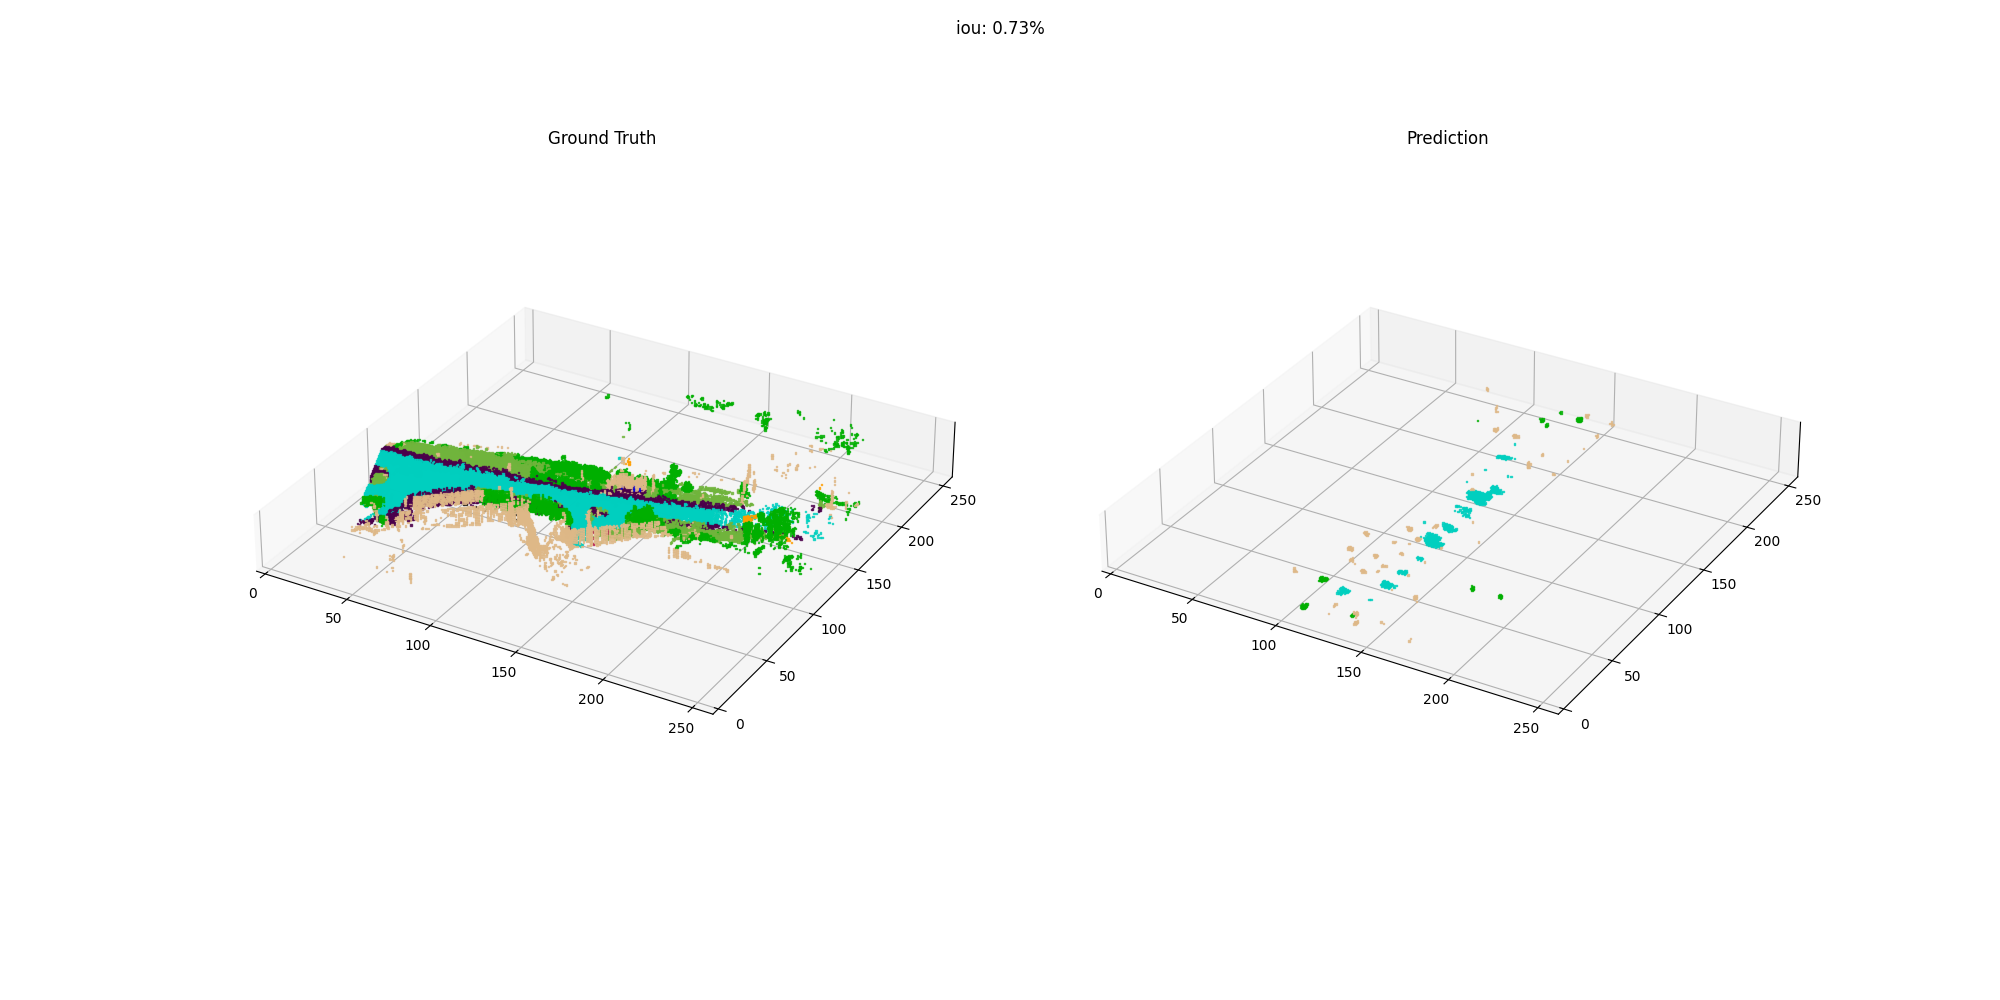
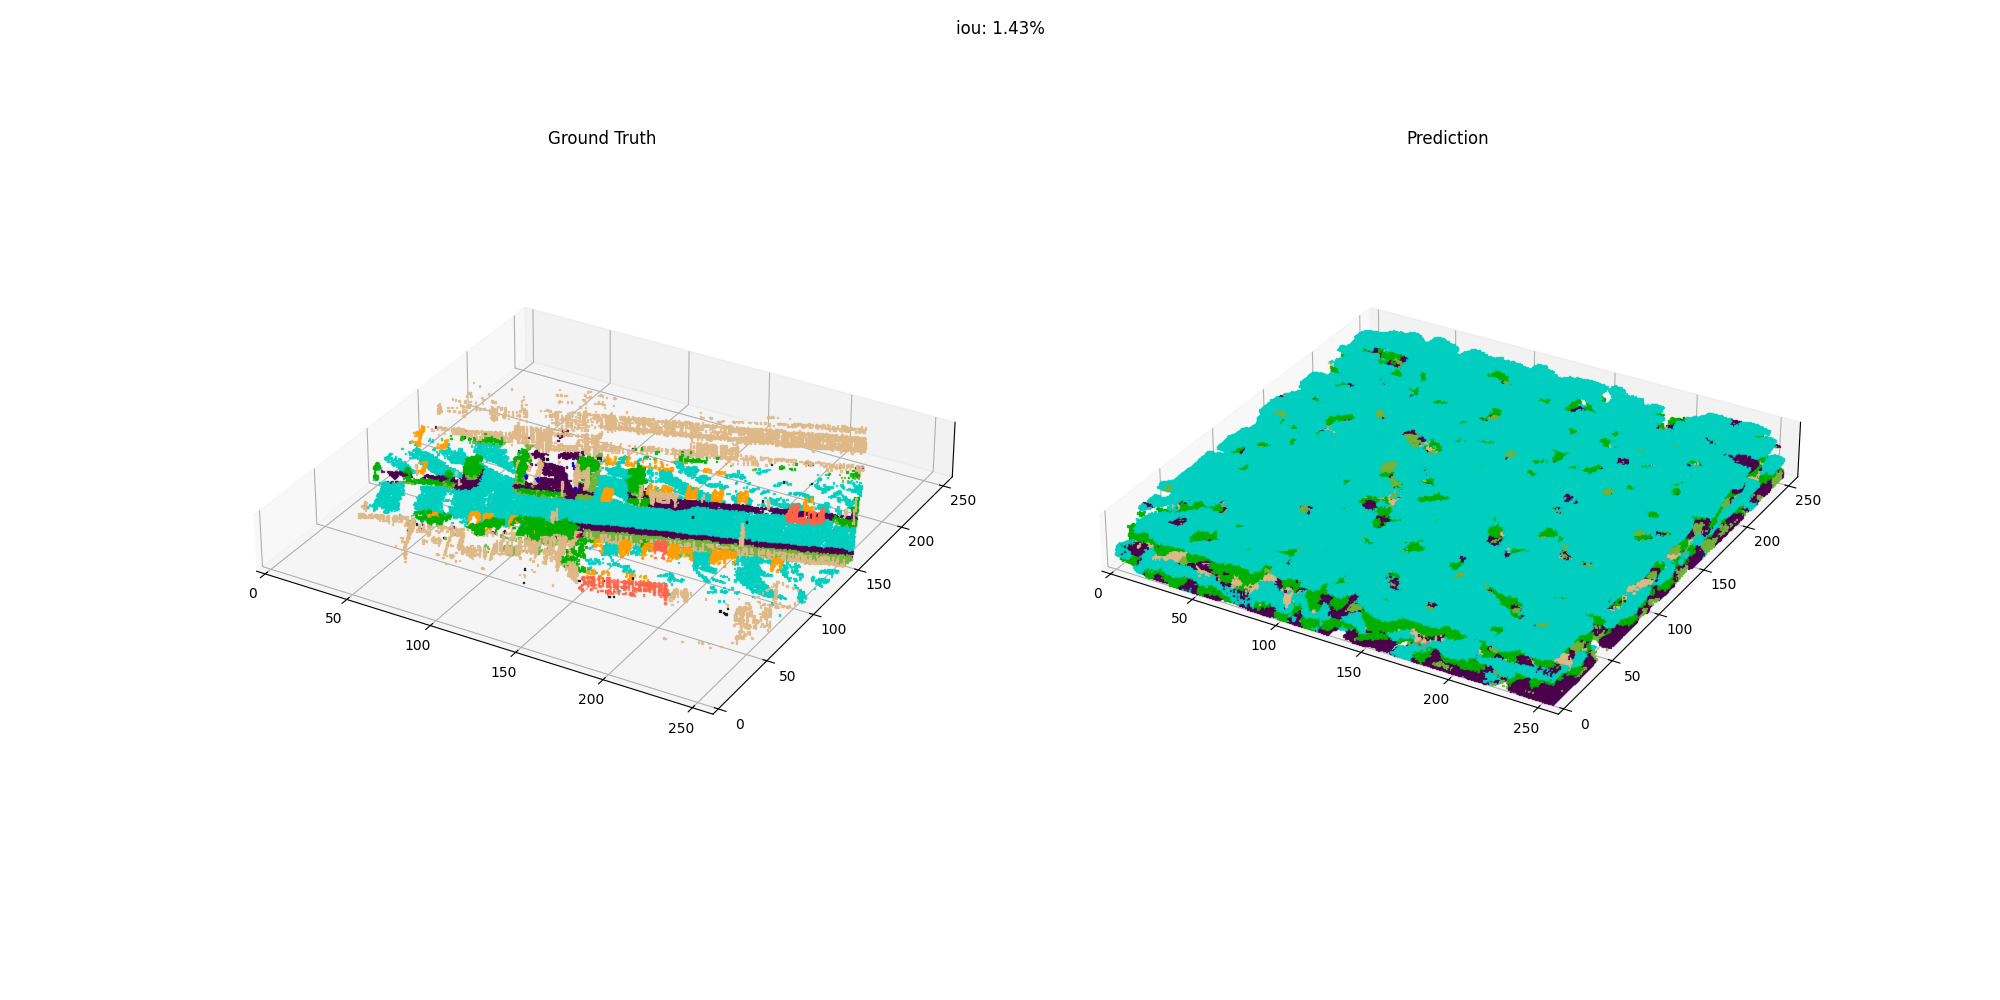
update

Changed region(s): [[0.558, 0.31, 0.899, 0.713], [0.155, 0.403, 0.434, 0.651]]

diff --git a/occupancy/pipelines/occ_transformer.py b/occupancy/pipelines/occ_transformer.py
@@ -242,7 +242,7 @@ class OccupancyTransformer(nn.Module):
         self.transformer = Transformer(
             self.hidden_size, self.num_layers, self.hidden_size // 128, 128, max_seq_length=16 * 16 * 2
         )
-        self.out_conv = nn.Conv3d(self.hidden_size, self.latent_dim, 1)
+        self.out_conv = nn.Conv3d(self.hidden_size, self.latent_dim * 2, 1)
 
     def forward(self, occ_latent: Tensor) -> Tensor:
         occ_latent = self.in_conv(occ_latent)
@@ -405,12 +405,15 @@ class OccupancyTransformerPipeline(nn.Module):
             occ_latent = None
             with torch.no_grad():
                 occ = occ_shuffle(input.occupancy, 32)
-                occ_latent = self.voxel_autoencoderkl.encode(occ).sample()
-                target_latent = self.voxel_autoencoderkl.encode(input.occupancy).sample()
+                occ_dist = self.voxel_autoencoderkl.encode(occ)
+                occ_latent = occ_dist.sample()
+                target_dist = self.voxel_autoencoderkl.encode(input.occupancy)
         model_output = self.decode(occ_latent, (16, 16, 2))
-        pred_occ = self.voxel_autoencoderkl.decode(model_output)
+        model_dist = GaussianDistribution.from_latent(model_output, self.voxel_autoencoderkl.latent_scale)
+        kl_loss = model_dist.kl_div(target_dist)
+        pred_occ = self.voxel_autoencoderkl.decode(model_dist.sample())
         pos_weight = self.influence_radial_weight(input.occupancy)
-        latent_loss = F.mse_loss(target_latent, model_output)
+        loss = None
         if input.occupancy.shape[1] == 1:
             loss = F.binary_cross_entropy_with_logits(
                 pred_occ,
@@ -424,13 +427,13 @@ class OccupancyTransformerPipeline(nn.Module):
                 weight=pos_weight.type_as(pred_occ),
                 ignore_index=1,
             )
-        loss = loss + latent_loss
         return OccupancyTransformerPipelineOutput(
             pred_occ,
             input.occupancy,
             loss,
             pos_weight,
         )
+        loss = loss + kl_loss
 
     def state_dict(self, *, prefix: str = "", keep_vars: bool = False) -> dict:
         state_dict = {
